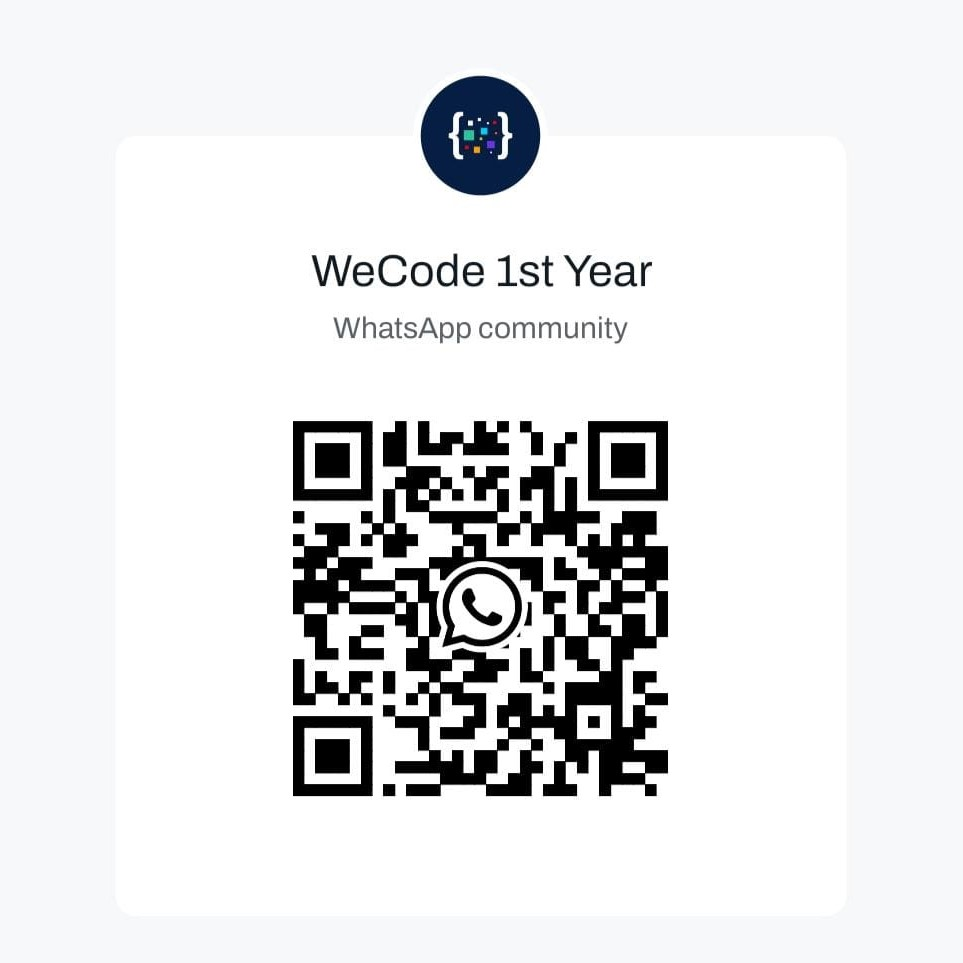
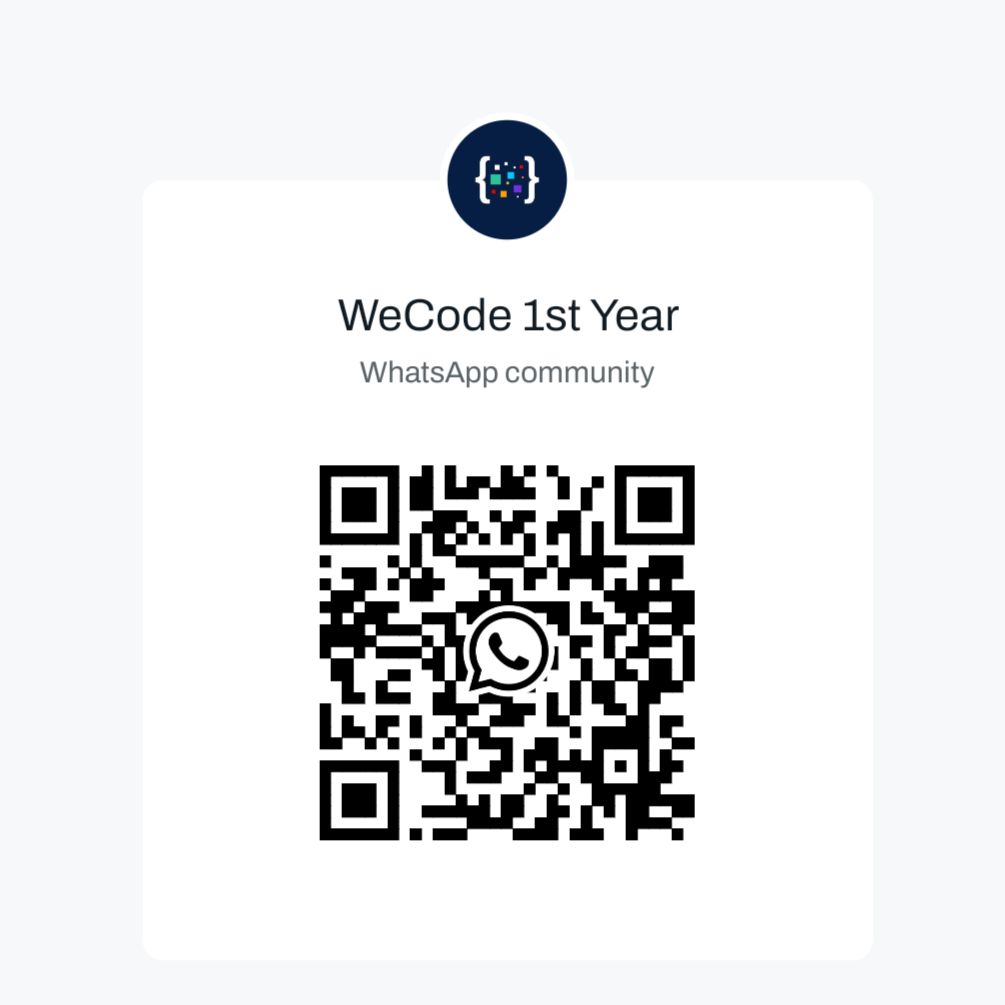
Fix contact qr

Changed region(s): [[0.2804, 0.4361, 0.7165, 0.8411], [0.3115, 0.0623, 0.6854, 0.405]]

diff --git a/components/component/ContactSection.tsx b/components/component/ContactSection.tsx
@@ -1,7 +1,7 @@
 import { Button } from "@/components/ui/button";
 // import { motion } from 'framer-motion';
 import wecode1st from '@/assets/wecode1st.png';
-import wecode2nd from '@/assets/wecode2nd.jpg';
+import wecode2nd from '@/assets/wecode2nd.png';
 
 // import {
 //     Dialog,
@@ -34,11 +34,11 @@ export const ContactSection = () => {
                 </motion.div> */}
                 <div className="flex flex-col md:flex-row w-full gap-4">
                     <div className="flex flex-col gap-2">
-                        <div className="rounded-lg shadow-sm pb-4 w-[25rem] border-[2px] overflow-hidden border-slate-50 mx-auto">
+                        <div className="rounded-lg shadow-sm pb-4 w-[25rem] max-h-[25rem] border-[2px] overflow-hidden border-slate-50 mx-auto">
                             <Image
                                 src={wecode1st}
                                 alt={'WeCode'}
-                                className="object-cover object-top rounded-lg h-[300px] w-full"
+                                className="object-cover object-top rounded-lg w-full"
                                 priority
                             />
                             <Link target='_blank' href={'https://chat.whatsapp.com/BuU2bAc6h7n3KEPyG8ZXGe'}>
@@ -47,11 +47,11 @@ export const ContactSection = () => {
                         </div>
                     </div>
                     <div className="flex flex-col gap-2">
-                        <div className="rounded-lg shadow-sm pb-4 w-[25rem] border-[2px] overflow-hidden border-slate-50 mx-auto">
+                        <div className="rounded-lg shadow-sm pb-4 w-[25rem] max-h-[25rem] border-[2px] overflow-hidden border-slate-50 mx-auto">
                             <Image
                                 src={wecode2nd}
                                 alt={'WeCode'}
-                                className="object-cover object-top rounded-lg h-[300px] w-full"
+                                className="object-cover object-top rounded-lg w-full"
                                 priority
                             />
                         </div>
